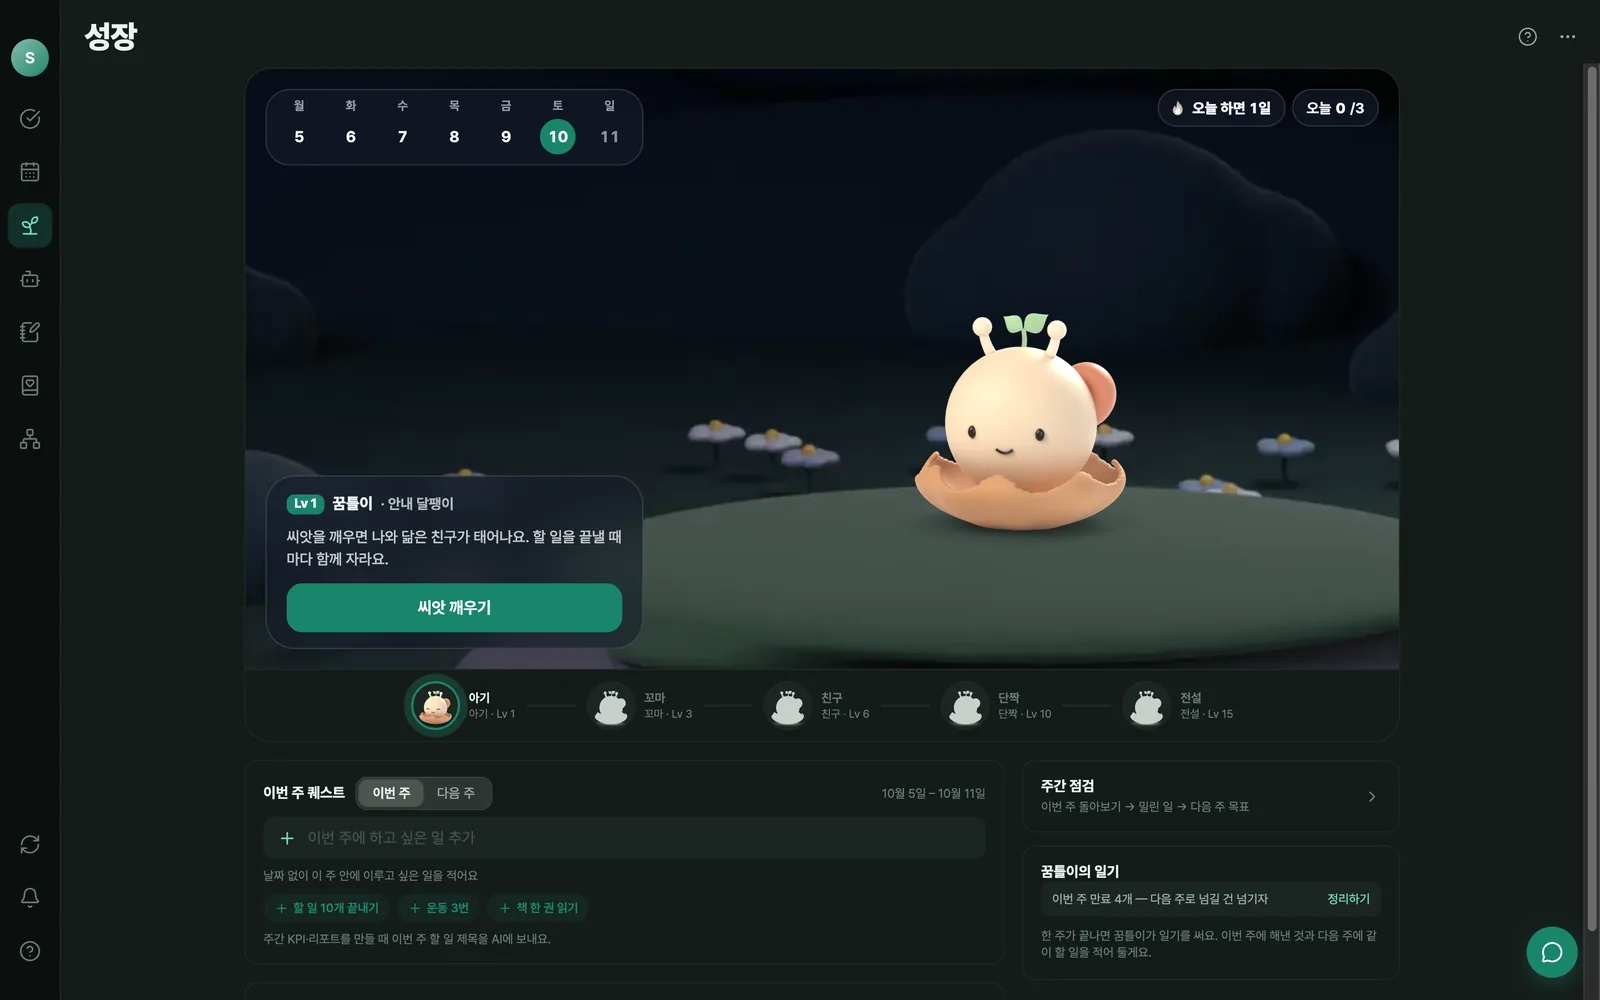
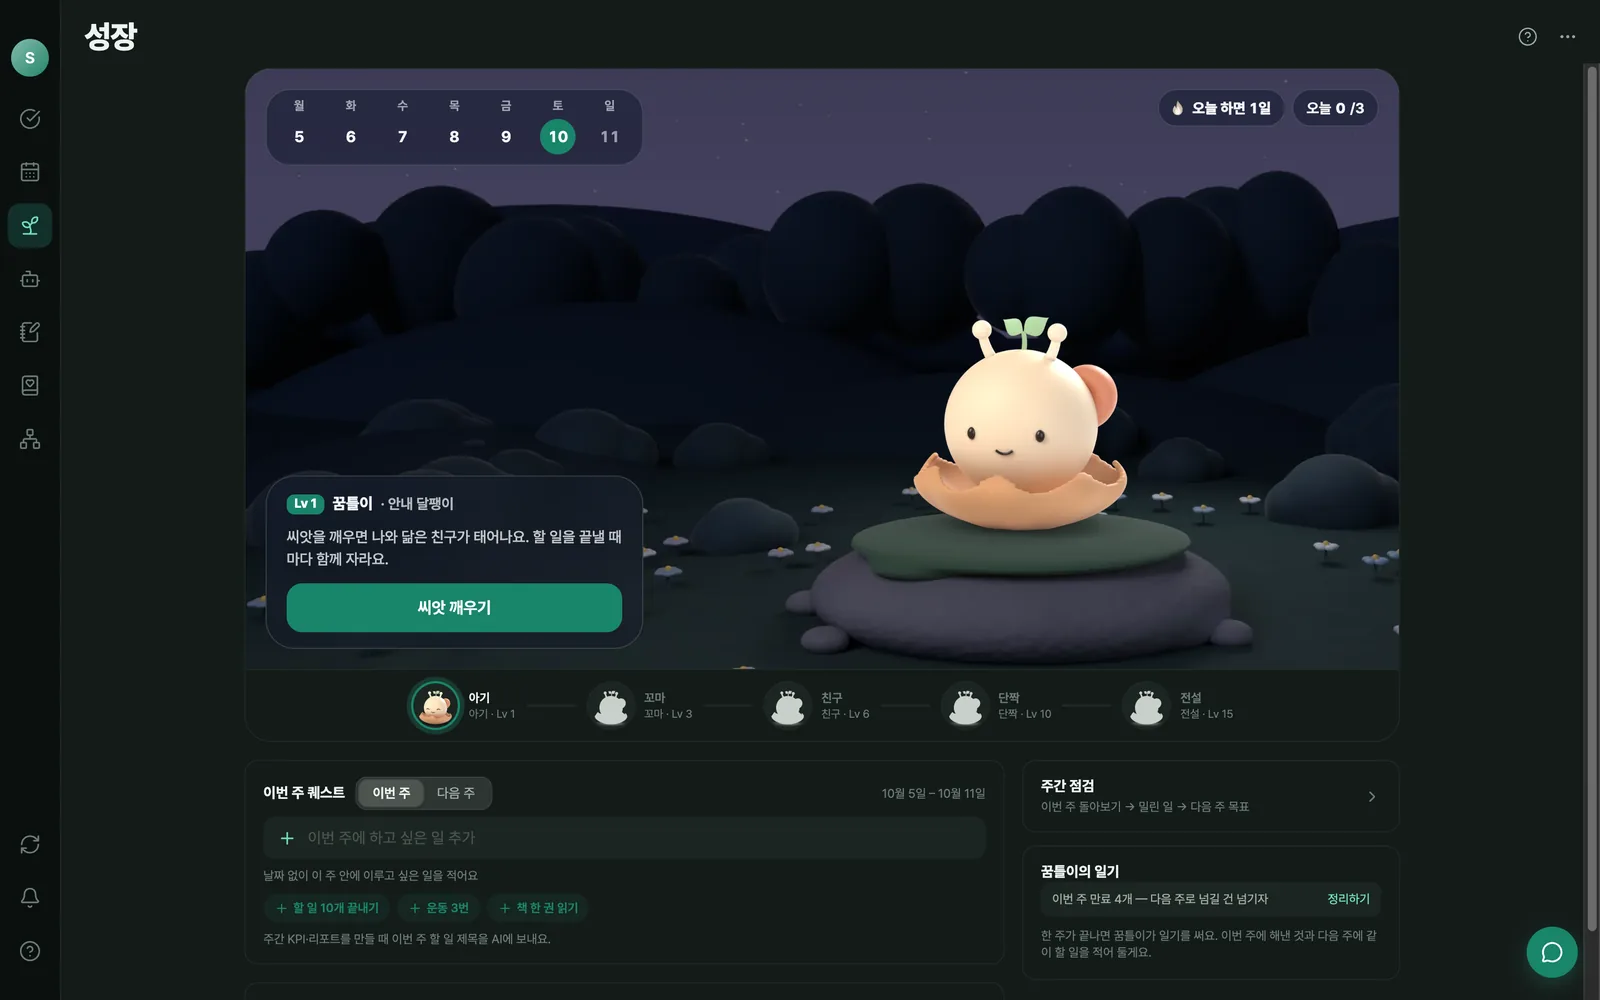
사이트: AI 비서·성장 캡처를 데스크톱 가로 고해상도 장면으로

diff --git a/index.html b/index.html
@@ -30,7 +30,7 @@
 <link rel="icon" href="/favicon.svg" type="image/svg+xml">
 <link rel="apple-touch-icon" href="/apple-touch-icon.png">
 <link rel="manifest" href="/site.webmanifest">
-<link rel="stylesheet" href="/assets/styles.css?v=mv1zt61b">
+<link rel="stylesheet" href="/assets/styles.css?v=mv27y6jd">
 </head>
 <body>
 <a class="skip" href="#main"><span lang="ko" data-l="ko">본문으로 건너뛰기</span><span lang="en" data-l="en">Skip to content</span></a>
@@ -73,7 +73,7 @@
 <div class="sec-head center reveal"><div class="kicker"><span lang="ko" data-l="ko">성장</span><span lang="en" data-l="en">Growth</span></div><h2 id="growth-title"><span lang="ko" data-l="ko">끝낸 일이<br>캐릭터를 키워요</span><span lang="en" data-l="en">Finished tasks<br>grow your character</span></h2><p><span lang="ko" data-l="ko">퀘스트를 하나씩 끝내 보세요. 알이 깨어나고, 레벨이 오르면 다음 모습으로 자라요.</span><span lang="en" data-l="en">Finish a few quests. The egg hatches, and as you level up your character evolves.</span></p></div>
 <div class="demo-wrap reveal"><div class="win app-win wide"><div class="win-bar" aria-hidden="true"><i></i><i></i><i></i><span class="win-title"><span lang="ko" data-l="ko">꿈틀 — 성장</span><span lang="en" data-l="en">Kkumteul — Growth</span></span><span class="win-badge"><span lang="ko" data-l="ko">직접 해 보기</span><span lang="en" data-l="en">Try it</span></span></div><div class="demo demo-growth" data-demo="growth"><noscript><p class="nojs"><span lang="ko" data-l="ko">자바스크립트를 켜면 여기서 직접 해 볼 수 있어요.</span><span lang="en" data-l="en">Turn on JavaScript to try it here.</span></p></noscript></div></div></div>
 <ul class="tries" aria-label="해 볼 것" data-aria-ko="해 볼 것" data-aria-en="Things to try"><li><span lang="ko" data-l="ko">퀘스트 체크하기</span><span lang="en" data-l="en">Check off quests</span></li><li><span lang="ko" data-l="ko">캐릭터 눌러 쓰다듬기</span><span lang="en" data-l="en">Tap the character</span></li><li><span lang="ko" data-l="ko">종 바꿔 보기</span><span lang="en" data-l="en">Switch species</span></li></ul>
-<div class="proof reveal"><div class="proof-text"><div class="proof-k"><span lang="ko" data-l="ko">실제 앱 화면</span><span lang="en" data-l="en">The real app</span></div><h3 class="proof-h"><span lang="ko" data-l="ko">한 주는 퀘스트로 정하고, 주말엔 같이 돌아봐요</span><span lang="en" data-l="en">Set the week as quests, then look back together</span></h3><ul class="ticks"><li><span lang="ko" data-l="ko">처음에 짧은 성향 질문으로 나에게 맞는 종이 알에서 나와요</span><span lang="en" data-l="en">A few quick questions pick the species that hatches</span></li><li><span lang="ko" data-l="ko">할 일 1 XP · 퀘스트 30 XP · 주간 점검 30 XP · 정리 20 XP</span><span lang="en" data-l="en">1 XP per task, 30 per quest, 30 per weekly review, 20 per tidy-up</span></li><li><span lang="ko" data-l="ko">레벨이 오르면 방을 꾸밀 장식이 하나씩 열려요</span><span lang="en" data-l="en">Each level unlocks a decoration for the room</span></li><li><span lang="ko" data-l="ko">주간 리포트 — 숫자는 앱이 세고, 글은 AI가 써요</span><span lang="en" data-l="en">Weekly report: the app counts, AI writes the note</span></li></ul></div><figure class="proof-shot"><div class="win"><div class="win-bar" aria-hidden="true"><i></i><i></i><i></i></div><img src="/assets/img/growth.webp?v=7da75c83" data-dark="/assets/img/growth-dark.webp?v=48bea9ea" alt="성장 — 마스코트 꿈틀이와 이번 주 퀘스트" data-alt-ko="성장 — 마스코트 꿈틀이와 이번 주 퀘스트" data-alt-en="Growth room with the Kkumteul mascot and weekly quests" width="1600" height="1000" loading="lazy" decoding="async"></div></figure></div>
+<div class="proof reveal"><div class="proof-text"><div class="proof-k"><span lang="ko" data-l="ko">실제 앱 화면</span><span lang="en" data-l="en">The real app</span></div><h3 class="proof-h"><span lang="ko" data-l="ko">한 주는 퀘스트로 정하고, 주말엔 같이 돌아봐요</span><span lang="en" data-l="en">Set the week as quests, then look back together</span></h3><ul class="ticks"><li><span lang="ko" data-l="ko">처음에 짧은 성향 질문으로 나에게 맞는 종이 알에서 나와요</span><span lang="en" data-l="en">A few quick questions pick the species that hatches</span></li><li><span lang="ko" data-l="ko">할 일 1 XP · 퀘스트 30 XP · 주간 점검 30 XP · 정리 20 XP</span><span lang="en" data-l="en">1 XP per task, 30 per quest, 30 per weekly review, 20 per tidy-up</span></li><li><span lang="ko" data-l="ko">레벨이 오르면 방을 꾸밀 장식이 하나씩 열려요</span><span lang="en" data-l="en">Each level unlocks a decoration for the room</span></li><li><span lang="ko" data-l="ko">주간 리포트 — 숫자는 앱이 세고, 글은 AI가 써요</span><span lang="en" data-l="en">Weekly report: the app counts, AI writes the note</span></li></ul></div><figure class="proof-shot"><div class="win"><div class="win-bar" aria-hidden="true"><i></i><i></i><i></i></div><img src="/assets/img/growth.webp?v=51c80208" data-dark="/assets/img/growth-dark.webp?v=e9443a2b" alt="성장 — 마스코트 꿈틀이와 이번 주 퀘스트" data-alt-ko="성장 — 마스코트 꿈틀이와 이번 주 퀘스트" data-alt-en="Growth room with the Kkumteul mascot and weekly quests" width="1600" height="1000" loading="lazy" decoding="async"></div></figure></div>
 </div>
 </section>
 
@@ -89,7 +89,7 @@
 <section id="assistant" aria-labelledby="ai-title">
 <div class="wrap">
 <div class="sec-head center reveal"><div class="kicker"><span lang="ko" data-l="ko">AI 비서</span><span lang="en" data-l="en">AI assistant</span></div><h2 id="ai-title"><span lang="ko" data-l="ko">말로 시키면<br>꿈틀이가 정리해요</span><span lang="en" data-l="en">Just say it,<br>and Kkumteul sorts it out</span></h2><p><span lang="ko" data-l="ko">할 일을 말로 넣고, 지난 기록을 묻고, 이번 주 급한 일을 같이 골라요.</span><span lang="en" data-l="en">Add tasks by talking, ask about your past, and pick this week’s priorities together.</span></p></div>
-<div class="proof reveal"><div class="proof-text"><div class="proof-k"><span lang="ko" data-l="ko">실제 앱 화면</span><span lang="en" data-l="en">The real app</span></div><h3 class="proof-h"><span lang="ko" data-l="ko">물어보면 내 할 일·일정에서 찾아 답해요</span><span lang="en" data-l="en">Answers from your own tasks and events</span></h3><ul class="ticks"><li><span lang="ko" data-l="ko">“내일 오후 3시 회의 잡아 줘” — 말로 할 일·일정 만들기</span><span lang="en" data-l="en">“Book a meeting tomorrow at 3pm” — create tasks and events by talking</span></li><li><span lang="ko" data-l="ko">“미용실 간 지 얼마나 지났지?” — 지난 기록 찾아보기</span><span lang="en" data-l="en">“How long since my last haircut?” — look things up in your history</span></li><li><span lang="ko" data-l="ko">저장하기 전엔 늘 카드로 보여 주고, 되돌릴 수 있어요</span><span lang="en" data-l="en">Always shows a card before saving, and you can undo</span></li><li><span lang="ko" data-l="ko">꿈틀 서버에서만 돌아가요 — 인터넷은 보지 않아요</span><span lang="en" data-l="en">Runs only on Kkumteul’s server and never browses the web</span></li></ul></div><figure class="proof-shot"><div class="win"><div class="win-bar" aria-hidden="true"><i></i><i></i><i></i></div><img src="/assets/img/assistant.webp?v=b2d4f4e2" data-dark="/assets/img/assistant-dark.webp?v=fc4ff6e3" alt="AI 비서 — 무엇을 도와줄까? 정원 위 꿈틀이와 추천 질문" data-alt-ko="AI 비서 — 무엇을 도와줄까? 정원 위 꿈틀이와 추천 질문" data-alt-en="AI assistant: Kkumteul in the garden with suggested questions" width="1600" height="1000" loading="lazy" decoding="async"></div></figure></div>
+<div class="proof reveal"><div class="proof-text"><div class="proof-k"><span lang="ko" data-l="ko">실제 앱 화면</span><span lang="en" data-l="en">The real app</span></div><h3 class="proof-h"><span lang="ko" data-l="ko">물어보면 내 할 일·일정에서 찾아 답해요</span><span lang="en" data-l="en">Answers from your own tasks and events</span></h3><ul class="ticks"><li><span lang="ko" data-l="ko">“내일 오후 3시 회의 잡아 줘” — 말로 할 일·일정 만들기</span><span lang="en" data-l="en">“Book a meeting tomorrow at 3pm” — create tasks and events by talking</span></li><li><span lang="ko" data-l="ko">“미용실 간 지 얼마나 지났지?” — 지난 기록 찾아보기</span><span lang="en" data-l="en">“How long since my last haircut?” — look things up in your history</span></li><li><span lang="ko" data-l="ko">저장하기 전엔 늘 카드로 보여 주고, 되돌릴 수 있어요</span><span lang="en" data-l="en">Always shows a card before saving, and you can undo</span></li><li><span lang="ko" data-l="ko">꿈틀 서버에서만 돌아가요 — 인터넷은 보지 않아요</span><span lang="en" data-l="en">Runs only on Kkumteul’s server and never browses the web</span></li></ul></div><figure class="proof-shot"><div class="win"><div class="win-bar" aria-hidden="true"><i></i><i></i><i></i></div><img src="/assets/img/assistant.webp?v=fa6e3c82" data-dark="/assets/img/assistant-dark.webp?v=2163317f" alt="AI 비서 — 무엇을 도와줄까? 정원 위 꿈틀이와 추천 질문" data-alt-ko="AI 비서 — 무엇을 도와줄까? 정원 위 꿈틀이와 추천 질문" data-alt-en="AI assistant: Kkumteul in the garden with suggested questions" width="1600" height="1000" loading="lazy" decoding="async"></div></figure></div>
 </div>
 </section>
 
@@ -188,7 +188,7 @@
 <a href="/support"><span lang="ko" data-l="ko">지원</span><span lang="en" data-l="en">Support</span></a>
 </nav>
 </div></footer>
-<script src="/assets/app.js?v=mv1zt61b" defer></script>
-<script src="/assets/demos.js?v=mv1zt61b" defer></script>
+<script src="/assets/app.js?v=mv27y6jd" defer></script>
+<script src="/assets/demos.js?v=mv27y6jd" defer></script>
 </body>
 </html>

diff --git a/account-deletion.html b/account-deletion.html
@@ -30,7 +30,7 @@
 <link rel="icon" href="/favicon.svg" type="image/svg+xml">
 <link rel="apple-touch-icon" href="/apple-touch-icon.png">
 <link rel="manifest" href="/site.webmanifest">
-<link rel="stylesheet" href="/assets/styles.css?v=mv1zt61b">
+<link rel="stylesheet" href="/assets/styles.css?v=mv27y6jd">
 </head>
 <body>
 <a class="skip" href="#main"><span lang="ko" data-l="ko">본문으로 건너뛰기</span><span lang="en" data-l="en">Skip to content</span></a>
@@ -103,6 +103,6 @@
 <a href="/support"><span lang="ko" data-l="ko">지원</span><span lang="en" data-l="en">Support</span></a>
 </nav>
 </div></footer>
-<script src="/assets/app.js?v=mv1zt61b" defer></script>
+<script src="/assets/app.js?v=mv27y6jd" defer></script>
 </body>
 </html>

diff --git a/privacy.html b/privacy.html
@@ -30,7 +30,7 @@
 <link rel="icon" href="/favicon.svg" type="image/svg+xml">
 <link rel="apple-touch-icon" href="/apple-touch-icon.png">
 <link rel="manifest" href="/site.webmanifest">
-<link rel="stylesheet" href="/assets/styles.css?v=mv1zt61b">
+<link rel="stylesheet" href="/assets/styles.css?v=mv27y6jd">
 </head>
 <body>
 <a class="skip" href="#main"><span lang="ko" data-l="ko">본문으로 건너뛰기</span><span lang="en" data-l="en">Skip to content</span></a>
@@ -145,6 +145,6 @@
 <a href="/support"><span lang="ko" data-l="ko">지원</span><span lang="en" data-l="en">Support</span></a>
 </nav>
 </div></footer>
-<script src="/assets/app.js?v=mv1zt61b" defer></script>
+<script src="/assets/app.js?v=mv27y6jd" defer></script>
 </body>
 </html>

diff --git a/terms.html b/terms.html
@@ -30,7 +30,7 @@
 <link rel="icon" href="/favicon.svg" type="image/svg+xml">
 <link rel="apple-touch-icon" href="/apple-touch-icon.png">
 <link rel="manifest" href="/site.webmanifest">
-<link rel="stylesheet" href="/assets/styles.css?v=mv1zt61b">
+<link rel="stylesheet" href="/assets/styles.css?v=mv27y6jd">
 </head>
 <body>
 <a class="skip" href="#main"><span lang="ko" data-l="ko">본문으로 건너뛰기</span><span lang="en" data-l="en">Skip to content</span></a>
@@ -125,6 +125,6 @@
 <a href="/support"><span lang="ko" data-l="ko">지원</span><span lang="en" data-l="en">Support</span></a>
 </nav>
 </div></footer>
-<script src="/assets/app.js?v=mv1zt61b" defer></script>
+<script src="/assets/app.js?v=mv27y6jd" defer></script>
 </body>
 </html>

diff --git a/404.html b/404.html
@@ -30,7 +30,7 @@
 <link rel="icon" href="/favicon.svg" type="image/svg+xml">
 <link rel="apple-touch-icon" href="/apple-touch-icon.png">
 <link rel="manifest" href="/site.webmanifest">
-<link rel="stylesheet" href="/assets/styles.css?v=mv1zt61b">
+<link rel="stylesheet" href="/assets/styles.css?v=mv27y6jd">
 </head>
 <body>
 <a class="skip" href="#main"><span lang="ko" data-l="ko">본문으로 건너뛰기</span><span lang="en" data-l="en">Skip to content</span></a>
@@ -62,6 +62,6 @@
 <a href="/support"><span lang="ko" data-l="ko">지원</span><span lang="en" data-l="en">Support</span></a>
 </nav>
 </div></footer>
-<script src="/assets/app.js?v=mv1zt61b" defer></script>
+<script src="/assets/app.js?v=mv27y6jd" defer></script>
 </body>
 </html>

diff --git a/support.html b/support.html
@@ -30,7 +30,7 @@
 <link rel="icon" href="/favicon.svg" type="image/svg+xml">
 <link rel="apple-touch-icon" href="/apple-touch-icon.png">
 <link rel="manifest" href="/site.webmanifest">
-<link rel="stylesheet" href="/assets/styles.css?v=mv1zt61b">
+<link rel="stylesheet" href="/assets/styles.css?v=mv27y6jd">
 </head>
 <body>
 <a class="skip" href="#main"><span lang="ko" data-l="ko">본문으로 건너뛰기</span><span lang="en" data-l="en">Skip to content</span></a>
@@ -97,6 +97,6 @@
 <a href="/support"><span lang="ko" data-l="ko">지원</span><span lang="en" data-l="en">Support</span></a>
 </nav>
 </div></footer>
-<script src="/assets/app.js?v=mv1zt61b" defer></script>
+<script src="/assets/app.js?v=mv27y6jd" defer></script>
 </body>
 </html>
